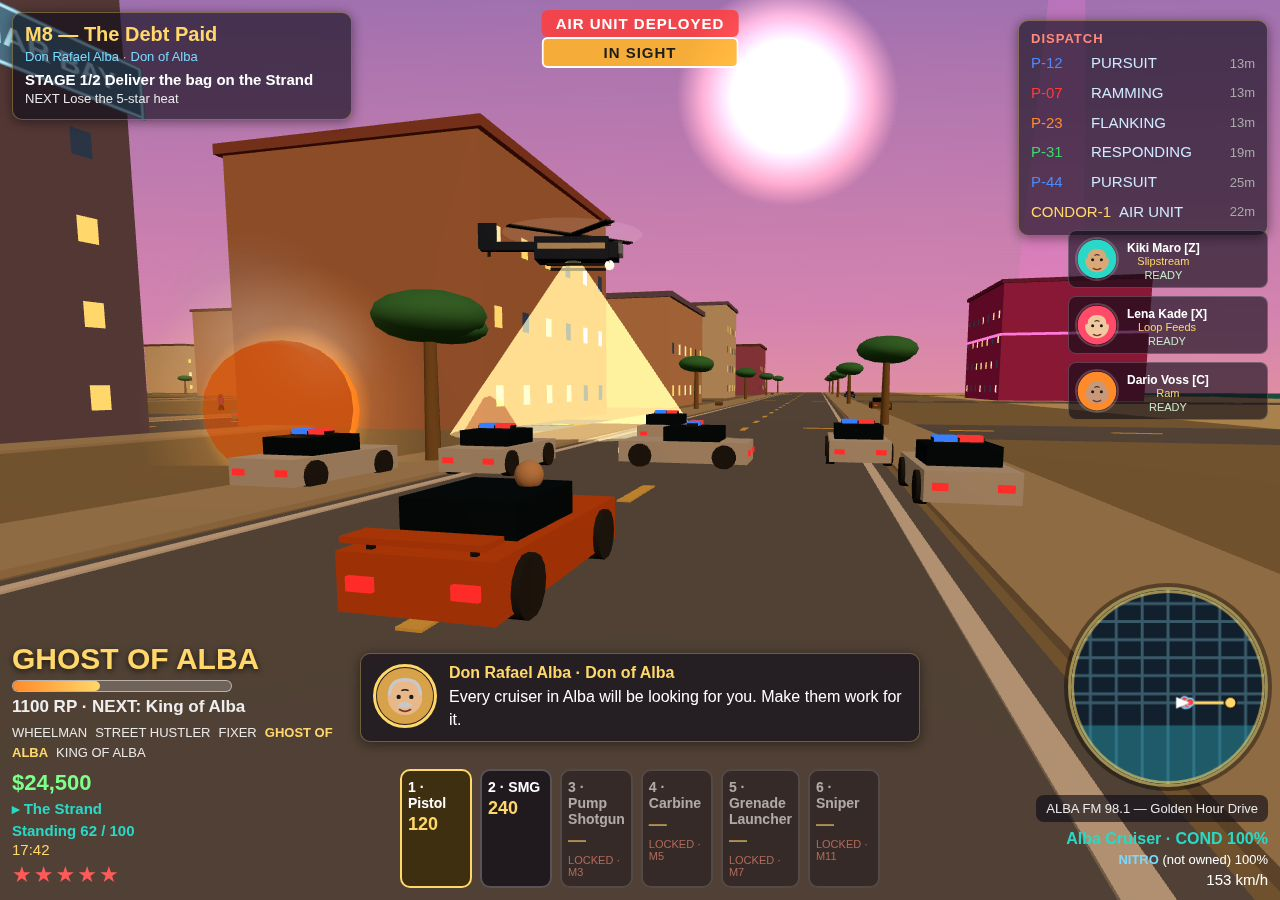
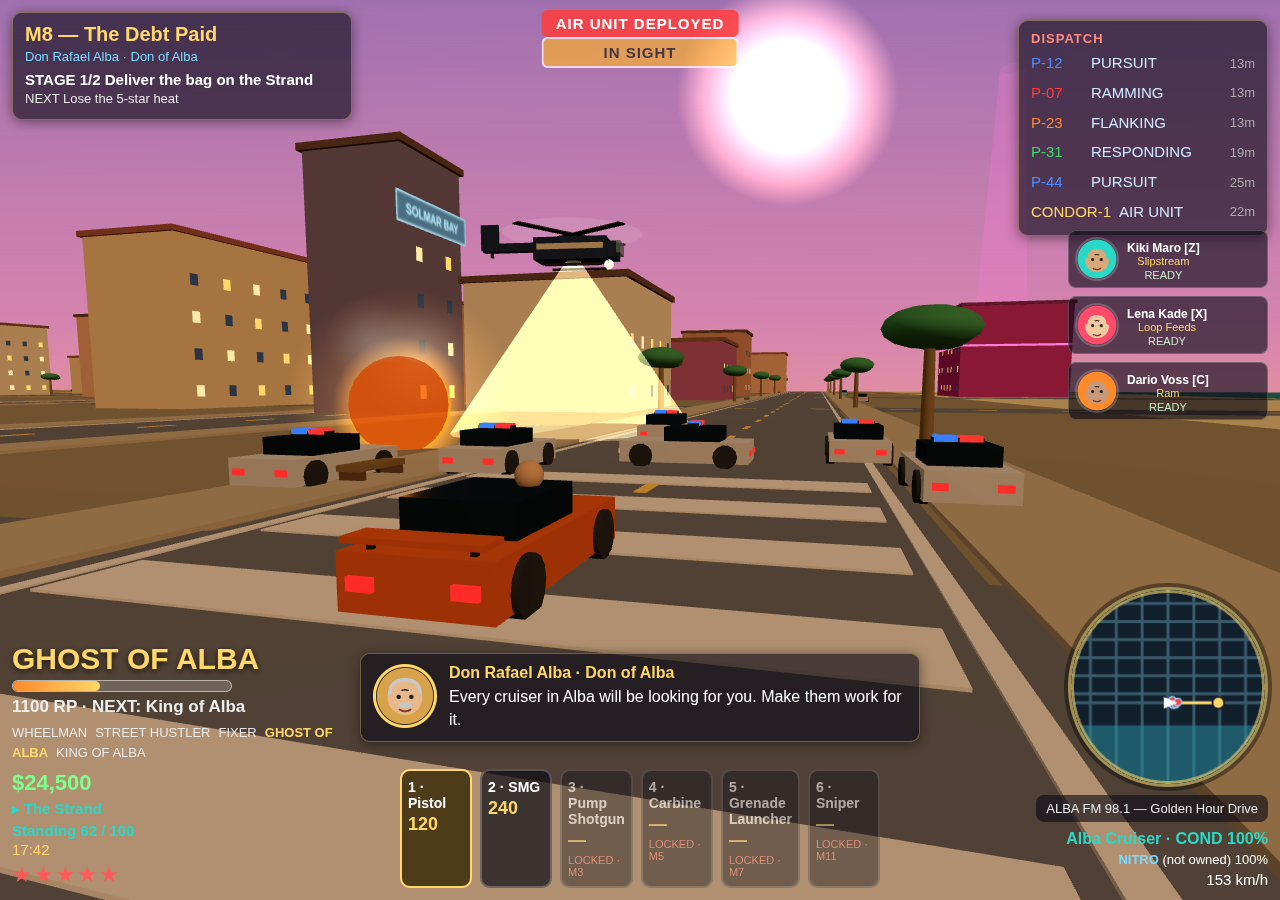
Puerto Alba v5 (rescue round 2): wheel docked right, heli clear in combat, muzzle flash visible

diff --git a/game/src/hud.js b/game/src/hud.js
@@ -235,10 +235,34 @@ export class Hud {
     this.wheelEl.innerHTML = '';
     const title = this.el('div', 'hud-wheel-title', this.wheelEl);
     title.textContent = 'WEAPONS — hold Tab, pick 1-6';
+    // Docked (positioned) wheel: compact, shifted right so the 3D action
+    // (helicopter, gun, muzzle) stays clear of the panel; default is the
+    // large centred modal used by the interactive Tab wheel.
+    const docked = !!(position && (position.left || position.top));
+    if (docked) {
+      if (position.left) this.wheelEl.style.left = position.left;
+      if (position.top) this.wheelEl.style.top = position.top;
+      this.wheelEl.style.padding = '10px 12px';
+      this.wheelEl.style.gap = '4px';
+      title.style.fontSize = '18px';
+      title.style.fontWeight = 'bold';
+      title.style.color = '#ffd76a';
+    } else {
+      this.wheelEl.style.left = '';
+      this.wheelEl.style.top = '';
+      this.wheelEl.style.padding = '';
+      this.wheelEl.style.gap = '';
+      title.style.fontSize = '';
+      title.style.fontWeight = '';
+      title.style.color = '';
+    }
     const row = this.el('div', 'hud-wheel-row', this.wheelEl);
+    if (docked) row.style.gap = '6px';
     list.forEach((w, i) => {
       const slot = this.el('div', 'hud-wheel-slot' + (i === selected ? ' sel' : ''), row);
+      if (docked) slot.style.width = '84px';
       const boxEl = this.el('div', 'hud-weapon' + (w.locked ? ' locked' : '') + (i === selected ? ' selected' : ''), slot);
+      if (docked) { boxEl.style.width = '72px'; boxEl.style.padding = '6px 4px'; }
       const name = this.el('div', 'hud-weapon-name', boxEl);
       name.textContent = (i + 1) + ' · ' + w.name;
       const ammo = this.el('div', 'hud-weapon-ammo', boxEl);

diff --git a/game/src/main.js b/game/src/main.js
@@ -1360,13 +1360,14 @@ export class Game {
     } catch (e) { /* ignore */ }
     this._fireCombatBurst();
     this._nextMuzzle = Date.now() + 250;
-    // Wheel open, dispatch hidden — they never overlap.
+    // Wheel docked right (6ca222f layout), dispatch hidden — the heli,
+    // gun and muzzle stay clear of the panel; they never overlap.
     const weapons = (this.combat.weapons || []).map((w, i) => ({
       name: w.name, ammo: w.ammo, locked: !w.unlocked,
       selected: i === this.combat.selected,
       lockText: w.unlockJob ? 'LOCKED · ' + w.unlockJob : 'LOCKED'
     }));
-    this.hud.showWheel(weapons, this.combat.selected || 0, null);
+    this.hud.showWheel(weapons, this.combat.selected || 0, { left: '76%', top: '16%' });
   }
 
   _stageVista() {
@@ -1385,9 +1386,11 @@ export class Game {
 
   _fireCombatBurst() {
     const h = this.player.heading;
-    const mx = this.player.x + Math.sin(h) * 1.1;
-    const mz = this.player.z + Math.cos(h) * 1.1;
-    this.effects.muzzle(mx, 1.5, mz);
+    // Muzzle at the actual gun tip: the gun sits at local (-0.62, 1.25,
+    // ~1.2 forward), so offset forward 1.2 and to the gun side.
+    const mx = this.player.x + Math.sin(h) * 1.2 - Math.cos(h) * 0.62;
+    const mz = this.player.z + Math.cos(h) * 1.2 + Math.sin(h) * 0.62;
+    this.effects.muzzle(mx, 1.3, mz);
     // Hit effect on the closest cruiser: sparks + smoke + damage flash.
     let target = null;
     let best = 1e9;

diff --git a/game/src/effects.js b/game/src/effects.js
@@ -84,15 +84,21 @@ export class Effects {
   }
 
   muzzle(x, y, z) {
-    // Bright burst at the gun tip: hot core, warm edge, gone in a blink.
+    // Bright burst at the gun tip: tight hot core + warm halo + a short
+    // light. Lives past the 250ms burst interval (and past a slow
+    // headless frame), so a bright flash is visible in every frame,
+    // without overlapping generations blowing the scene out.
     this._sprite(
-      [[0, 'rgba(255,250,200,1)'], [0.4, 'rgba(255,200,80,0.9)'], [1, 'rgba(255,120,20,0)']],
-      2.4, 1, true, x, y, z, 0.12
+      [[0, 'rgba(255,250,200,1)'], [0.3, 'rgba(255,210,90,0.95)'], [1, 'rgba(255,120,20,0)']],
+      3.4, 1, true, x, y, z, 0.5
     );
     this._sprite(
-      [[0, 'rgba(255,220,120,0.9)'], [1, 'rgba(255,120,20,0)']],
-      4.2, 0.7, true, x, y, z, 0.14
+      [[0, 'rgba(255,220,120,0.5)'], [1, 'rgba(255,120,20,0)']],
+      4.0, 0.5, true, x, y, z, 0.55
     );
+    const light = new this.THREE.PointLight(0xffc040, 4, 14);
+    light.position.set(x, y + 0.5, z);
+    this._add(light, 0.4, 4, {});
   }
 
   sparks(x, y, z) {
